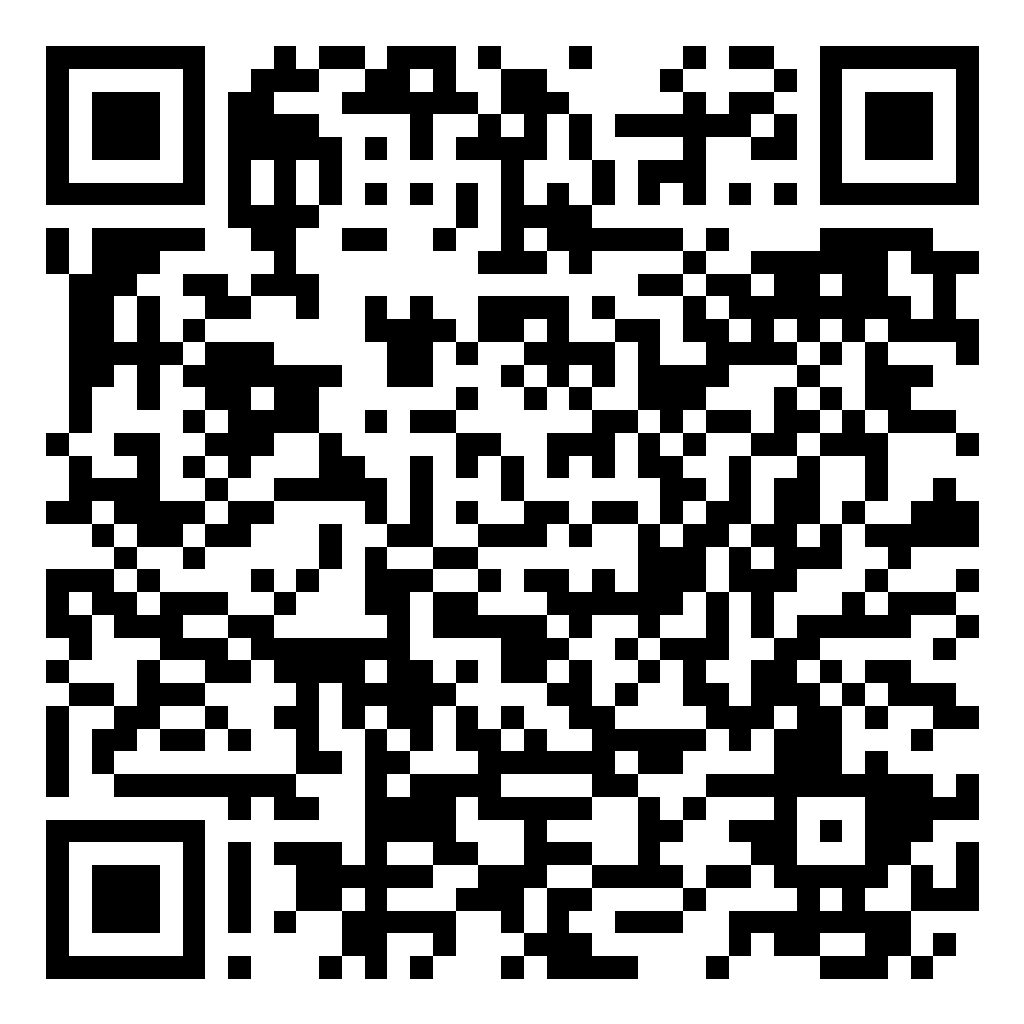
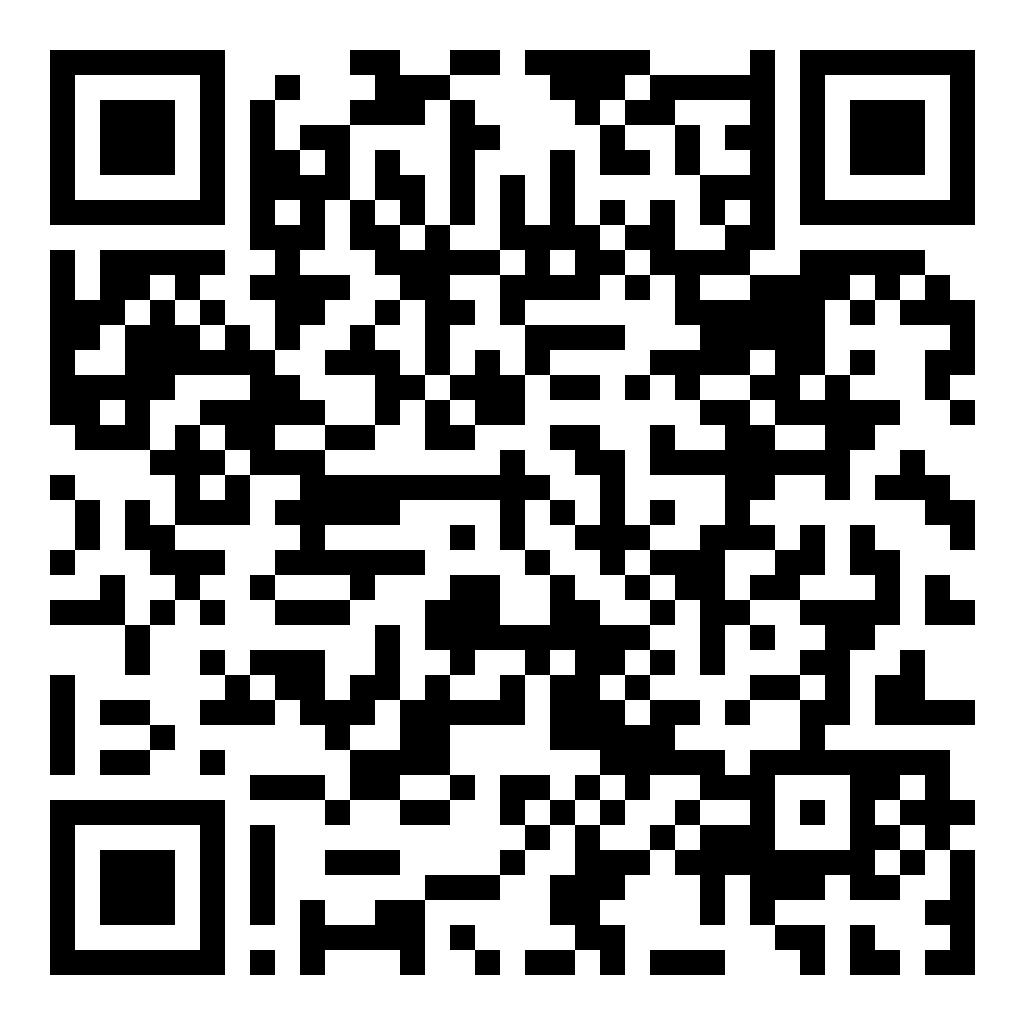
Update Android install link to the latest Expo APK artifact.

diff --git a/src/config/siteConfig.ts b/src/config/siteConfig.ts
@@ -17,7 +17,7 @@ export const siteConfig = {
 
   /** Direct APK download — Expo artifact URL (not the build page) */
   apkDownloadUrl:
-    "https://expo.dev/artifacts/eas/92dfe77d-f98e-4a18-9b23-4d01950d5b69.apk",
+    "https://expo.dev/artifacts/eas/DOMqhSMjmlczz3YJaAXRVb4ZlUgllmCuZfEbzBYFYEI.apk",
 
   /** Static QR code image — leave empty to auto-generate a crisp QR from apkDownloadUrl */
   installQrCodeImage: "",
